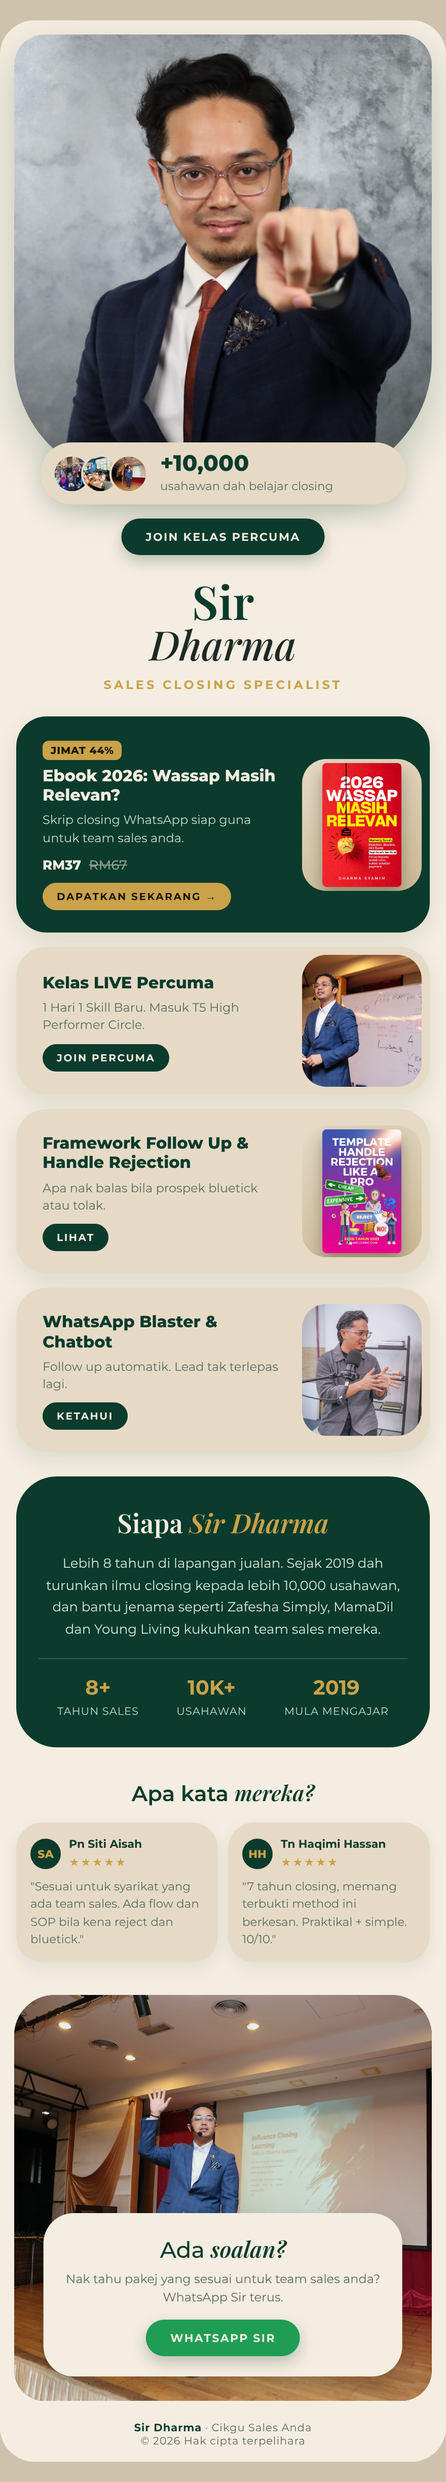
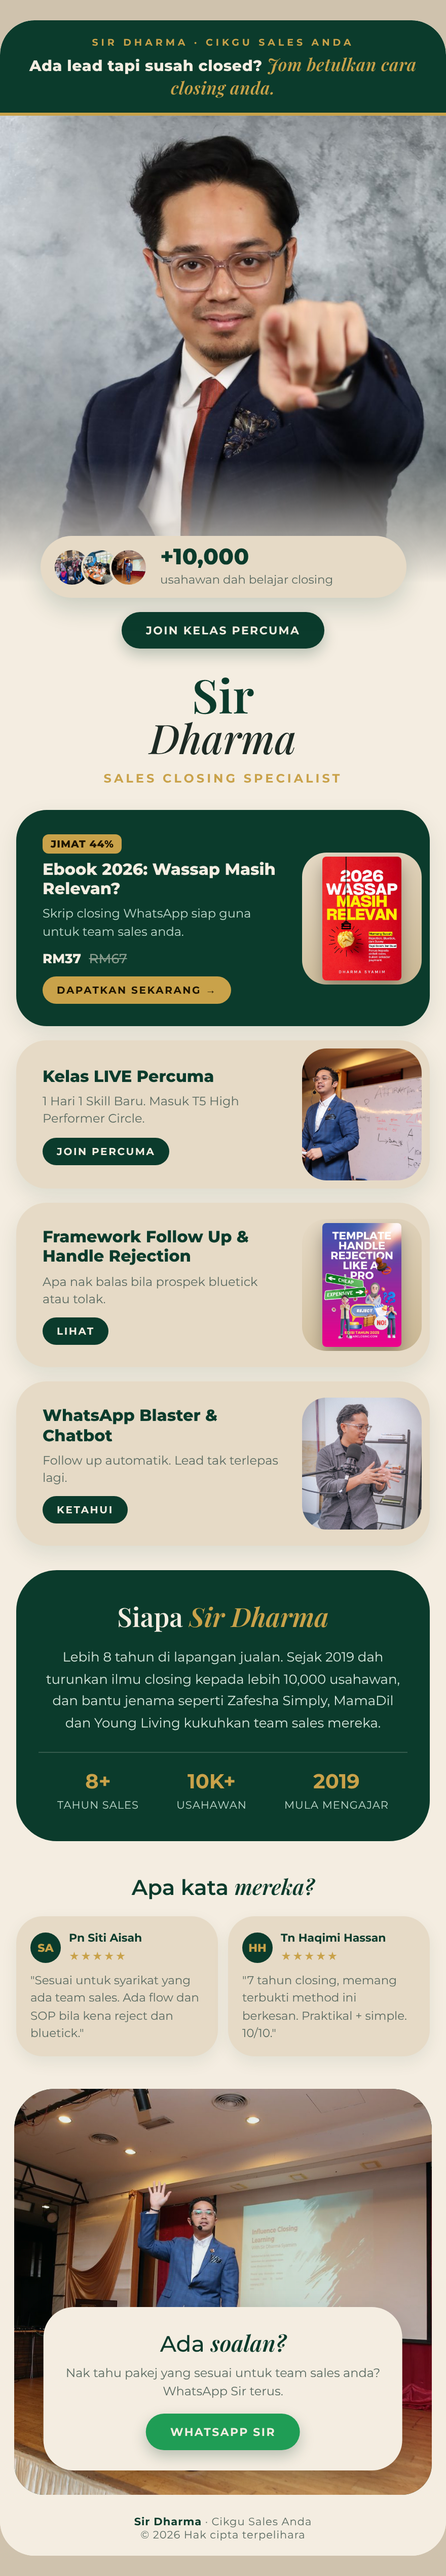
Bio: full-bleed hero photo and headline header bar
Claude-Session: https://claude.ai/code/session_01TPky1w5Smp95p1hdnhCb8t

diff --git a/bio/TAMPAL-custom-html.html b/bio/TAMPAL-custom-html.html
@@ -4,9 +4,10 @@
 .sd{--cream:#f4ede1;--sand:#e6dac6;--green:#0b3b2c;--green2:#14533f;--gold:#c9a24a;--ink:#1d2a24;--soft:#5b6b62;font-family:Montserrat,sans-serif;color:var(--ink);background:var(--cream);max-width:480px;margin:0 auto;overflow:hidden;border-radius:34px}
 .sd *{box-sizing:border-box;margin:0;padding:0}
 .sd a{text-decoration:none;color:inherit}
-.sd .hero{position:relative;padding:14px 14px 0}
-.sd .hero img{display:block;width:100%;height:440px;object-fit:cover;object-position:center 0%;border-radius:30px 30px 120px 120px;box-shadow:0 18px 40px rgba(11,59,44,.22)}
-.sd .stat{position:relative;margin:-38px auto 0;width:82%;background:var(--sand);border-radius:999px;padding:10px 22px 10px 12px;display:flex;align-items:center;gap:12px;box-shadow:0 10px 24px rgba(11,59,44,.18)}
+.sd .hero{position:relative}
+.sd .hero:after{content:"";position:absolute;left:0;right:0;bottom:0;height:120px;background:linear-gradient(180deg,rgba(244,237,225,0),var(--cream))}
+.sd .hero img{display:block;width:100%;height:460px;object-fit:cover;object-position:center 0%}
+.sd .stat{position:relative;z-index:2;margin:-46px auto 0;width:82%;background:var(--sand);border-radius:999px;padding:10px 22px 10px 12px;display:flex;align-items:center;gap:12px;box-shadow:0 10px 24px rgba(11,59,44,.18)}
 .sd .faces{display:flex}
 .sd .faces img{width:38px;height:38px;border-radius:50%;object-fit:cover;border:2px solid var(--sand);margin-left:-10px}
 .sd .faces img:first-child{margin-left:0}
@@ -63,6 +64,10 @@
 .sd .wa{background:#1f9d55}
 .sd .foot{background:var(--cream);margin-top:6px;text-align:center;padding:14px;font-size:10.5px;color:var(--soft);letter-spacing:.5px}
 .sd .foot b{color:var(--green)}
+.sd .top{background:var(--green);color:var(--cream);text-align:center;padding:16px 18px 14px;border-bottom:3px solid var(--gold);position:relative}
+.sd .top small{display:block;font-size:9.5px;letter-spacing:3px;color:var(--gold);font-weight:700;margin-bottom:5px}
+.sd .top h2{font-size:15px;font-weight:800;line-height:1.3;letter-spacing:.3px}
+.sd .top h2 i{font-family:'Playfair Display',serif;font-weight:600;color:var(--gold);font-size:17px}
 .sd .pop{animation:sdpop .6s cubic-bezier(.34,1.56,.64,1) both}
 @keyframes sdpop{0%{opacity:0;transform:translateY(24px) scale(.88)}100%{opacity:1;transform:none}}
 .sd .pulse{animation:sdpop .6s cubic-bezier(.34,1.56,.64,1) both,sdpulse 2.2s ease-in-out 1.2s infinite}
@@ -72,9 +77,10 @@
 @media (prefers-reduced-motion:reduce){.sd .pop,.sd .pulse{animation:none}.sd.js .rev{opacity:1;transform:none}}
 </style>
 <div class="sd">
-  <div class="hero pop"><img src="https://raw.githubusercontent.com/dhsfikri/website-sales/81632282910684cd0790bfd610759b85db0970cc/assets/galeri/studio-tunjuk.jpg" alt="Sir Dharma"></div>
+  <div class="top pop"><small>SIR DHARMA · CIKGU SALES ANDA</small><h2>Ada lead tapi susah closed? <i>Jom betulkan cara closing anda.</i></h2></div>
+  <div class="hero pop" style="animation-delay:.1s"><img src="https://raw.githubusercontent.com/dhsfikri/website-sales/8374efd2309237ca609a4a3c4d42edb5389c55bd/assets/galeri/studio-tunjuk.jpg" alt="Sir Dharma"></div>
   <div class="stat pop" style="animation-delay:.25s">
-    <div class="faces"><img src="https://raw.githubusercontent.com/dhsfikri/website-sales/81632282910684cd0790bfd610759b85db0970cc/assets/galeri/team-farmasi.jpg" alt=""><img src="https://raw.githubusercontent.com/dhsfikri/website-sales/81632282910684cd0790bfd610759b85db0970cc/assets/galeri/coaching-hq.jpg" alt=""><img src="https://raw.githubusercontent.com/dhsfikri/website-sales/81632282910684cd0790bfd610759b85db0970cc/assets/galeri/pentas-influence.jpg" alt=""></div>
+    <div class="faces"><img src="https://raw.githubusercontent.com/dhsfikri/website-sales/8374efd2309237ca609a4a3c4d42edb5389c55bd/assets/galeri/team-farmasi.jpg" alt=""><img src="https://raw.githubusercontent.com/dhsfikri/website-sales/8374efd2309237ca609a4a3c4d42edb5389c55bd/assets/galeri/coaching-hq.jpg" alt=""><img src="https://raw.githubusercontent.com/dhsfikri/website-sales/8374efd2309237ca609a4a3c4d42edb5389c55bd/assets/galeri/pentas-influence.jpg" alt=""></div>
     <div><b>+10,000</b><span>usahawan dah belajar closing</span></div>
   </div>
   <div class="center" style="margin-top:14px"><a class="pill pulse" style="animation-delay:.4s,1.2s" href="GANTI_LINK_T5" target="_top">Join kelas percuma</a></div>
@@ -87,19 +93,19 @@
   <div class="cards">
     <a class="rev card dark" href="https://klik.vip/ebookclosing-bio" target="_top">
       <div class="tx"><span class="tag">JIMAT 44%</span><h3>Ebook 2026: Wassap Masih Relevan?</h3><p>Skrip closing WhatsApp siap guna untuk team sales anda.</p><div class="price">RM37 <s>RM67</s></div><span class="btn">Dapatkan sekarang →</span></div>
-      <div class="ph book"><img src="https://raw.githubusercontent.com/dhsfikri/website-sales/81632282910684cd0790bfd610759b85db0970cc/assets/covers/ebook-2026.jpg" alt="Ebook 2026"></div>
+      <div class="ph book"><img src="https://raw.githubusercontent.com/dhsfikri/website-sales/8374efd2309237ca609a4a3c4d42edb5389c55bd/assets/covers/ebook-2026.jpg" alt="Ebook 2026"></div>
     </a>
     <a class="rev card" href="GANTI_LINK_T5" target="_top">
       <div class="tx"><h3>Kelas LIVE Percuma</h3><p>1 Hari 1 Skill Baru. Masuk T5 High Performer Circle.</p><span class="btn">Join percuma</span></div>
-      <div class="ph"><img src="https://raw.githubusercontent.com/dhsfikri/website-sales/81632282910684cd0790bfd610759b85db0970cc/assets/galeri/hero-whiteboard.jpg" alt=""></div>
+      <div class="ph"><img src="https://raw.githubusercontent.com/dhsfikri/website-sales/8374efd2309237ca609a4a3c4d42edb5389c55bd/assets/galeri/hero-whiteboard.jpg" alt=""></div>
     </a>
     <a class="rev card" href="GANTI_LINK_FRAMEWORK" target="_top">
       <div class="tx"><h3>Framework Follow Up &amp; Handle Rejection</h3><p>Apa nak balas bila prospek bluetick atau tolak.</p><span class="btn">Lihat</span></div>
-      <div class="ph book"><img src="https://raw.githubusercontent.com/dhsfikri/website-sales/81632282910684cd0790bfd610759b85db0970cc/assets/covers/handle-rejection-2025.jpg" alt=""></div>
+      <div class="ph book"><img src="https://raw.githubusercontent.com/dhsfikri/website-sales/8374efd2309237ca609a4a3c4d42edb5389c55bd/assets/covers/handle-rejection-2025.jpg" alt=""></div>
     </a>
     <a class="rev card" href="GANTI_LINK_BLASTER" target="_top">
       <div class="tx"><h3>WhatsApp Blaster &amp; Chatbot</h3><p>Follow up automatik. Lead tak terlepas lagi.</p><span class="btn">Ketahui</span></div>
-      <div class="ph"><img src="https://raw.githubusercontent.com/dhsfikri/website-sales/81632282910684cd0790bfd610759b85db0970cc/assets/galeri/podcast-sir.jpg" alt=""></div>
+      <div class="ph"><img src="https://raw.githubusercontent.com/dhsfikri/website-sales/8374efd2309237ca609a4a3c4d42edb5389c55bd/assets/galeri/podcast-sir.jpg" alt=""></div>
     </a>
   </div>
 
@@ -118,7 +124,7 @@
   </div>
 
   <div class="end rev">
-    <img src="https://raw.githubusercontent.com/dhsfikri/website-sales/81632282910684cd0790bfd610759b85db0970cc/assets/galeri/pentas-influence.jpg" alt="">
+    <img src="https://raw.githubusercontent.com/dhsfikri/website-sales/8374efd2309237ca609a4a3c4d42edb5389c55bd/assets/galeri/pentas-influence.jpg" alt="">
     <div class="box">
       <h2>Ada <i>soalan?</i></h2>
       <p>Nak tahu pakej yang sesuai untuk team sales anda? WhatsApp Sir terus.</p>

diff --git a/bio/bio-pro.html b/bio/bio-pro.html
@@ -4,9 +4,10 @@
 .sd{--cream:#f4ede1;--sand:#e6dac6;--green:#0b3b2c;--green2:#14533f;--gold:#c9a24a;--ink:#1d2a24;--soft:#5b6b62;font-family:Montserrat,sans-serif;color:var(--ink);background:var(--cream);max-width:480px;margin:0 auto;overflow:hidden;border-radius:34px}
 .sd *{box-sizing:border-box;margin:0;padding:0}
 .sd a{text-decoration:none;color:inherit}
-.sd .hero{position:relative;padding:14px 14px 0}
-.sd .hero img{display:block;width:100%;height:440px;object-fit:cover;object-position:center 0%;border-radius:30px 30px 120px 120px;box-shadow:0 18px 40px rgba(11,59,44,.22)}
-.sd .stat{position:relative;margin:-38px auto 0;width:82%;background:var(--sand);border-radius:999px;padding:10px 22px 10px 12px;display:flex;align-items:center;gap:12px;box-shadow:0 10px 24px rgba(11,59,44,.18)}
+.sd .hero{position:relative}
+.sd .hero:after{content:"";position:absolute;left:0;right:0;bottom:0;height:120px;background:linear-gradient(180deg,rgba(244,237,225,0),var(--cream))}
+.sd .hero img{display:block;width:100%;height:460px;object-fit:cover;object-position:center 0%}
+.sd .stat{position:relative;z-index:2;margin:-46px auto 0;width:82%;background:var(--sand);border-radius:999px;padding:10px 22px 10px 12px;display:flex;align-items:center;gap:12px;box-shadow:0 10px 24px rgba(11,59,44,.18)}
 .sd .faces{display:flex}
 .sd .faces img{width:38px;height:38px;border-radius:50%;object-fit:cover;border:2px solid var(--sand);margin-left:-10px}
 .sd .faces img:first-child{margin-left:0}
@@ -63,6 +64,10 @@
 .sd .wa{background:#1f9d55}
 .sd .foot{background:var(--cream);margin-top:6px;text-align:center;padding:14px;font-size:10.5px;color:var(--soft);letter-spacing:.5px}
 .sd .foot b{color:var(--green)}
+.sd .top{background:var(--green);color:var(--cream);text-align:center;padding:16px 18px 14px;border-bottom:3px solid var(--gold);position:relative}
+.sd .top small{display:block;font-size:9.5px;letter-spacing:3px;color:var(--gold);font-weight:700;margin-bottom:5px}
+.sd .top h2{font-size:15px;font-weight:800;line-height:1.3;letter-spacing:.3px}
+.sd .top h2 i{font-family:'Playfair Display',serif;font-weight:600;color:var(--gold);font-size:17px}
 .sd .pop{animation:sdpop .6s cubic-bezier(.34,1.56,.64,1) both}
 @keyframes sdpop{0%{opacity:0;transform:translateY(24px) scale(.88)}100%{opacity:1;transform:none}}
 .sd .pulse{animation:sdpop .6s cubic-bezier(.34,1.56,.64,1) both,sdpulse 2.2s ease-in-out 1.2s infinite}
@@ -72,7 +77,8 @@
 @media (prefers-reduced-motion:reduce){.sd .pop,.sd .pulse{animation:none}.sd.js .rev{opacity:1;transform:none}}
 </style>
 <div class="sd">
-  <div class="hero pop"><img src="IMG/assets/galeri/studio-tunjuk.jpg" alt="Sir Dharma"></div>
+  <div class="top pop"><small>SIR DHARMA · CIKGU SALES ANDA</small><h2>Ada lead tapi susah closed? <i>Jom betulkan cara closing anda.</i></h2></div>
+  <div class="hero pop" style="animation-delay:.1s"><img src="IMG/assets/galeri/studio-tunjuk.jpg" alt="Sir Dharma"></div>
   <div class="stat pop" style="animation-delay:.25s">
     <div class="faces"><img src="IMG/assets/galeri/team-farmasi.jpg" alt=""><img src="IMG/assets/galeri/coaching-hq.jpg" alt=""><img src="IMG/assets/galeri/pentas-influence.jpg" alt=""></div>
     <div><b>+10,000</b><span>usahawan dah belajar closing</span></div>

diff --git a/bio/preview.html b/bio/preview.html
@@ -4,9 +4,10 @@
 .sd{--cream:#f4ede1;--sand:#e6dac6;--green:#0b3b2c;--green2:#14533f;--gold:#c9a24a;--ink:#1d2a24;--soft:#5b6b62;font-family:Montserrat,sans-serif;color:var(--ink);background:var(--cream);max-width:480px;margin:0 auto;overflow:hidden;border-radius:34px}
 .sd *{box-sizing:border-box;margin:0;padding:0}
 .sd a{text-decoration:none;color:inherit}
-.sd .hero{position:relative;padding:14px 14px 0}
-.sd .hero img{display:block;width:100%;height:440px;object-fit:cover;object-position:center 0%;border-radius:30px 30px 120px 120px;box-shadow:0 18px 40px rgba(11,59,44,.22)}
-.sd .stat{position:relative;margin:-38px auto 0;width:82%;background:var(--sand);border-radius:999px;padding:10px 22px 10px 12px;display:flex;align-items:center;gap:12px;box-shadow:0 10px 24px rgba(11,59,44,.18)}
+.sd .hero{position:relative}
+.sd .hero:after{content:"";position:absolute;left:0;right:0;bottom:0;height:120px;background:linear-gradient(180deg,rgba(244,237,225,0),var(--cream))}
+.sd .hero img{display:block;width:100%;height:460px;object-fit:cover;object-position:center 0%}
+.sd .stat{position:relative;z-index:2;margin:-46px auto 0;width:82%;background:var(--sand);border-radius:999px;padding:10px 22px 10px 12px;display:flex;align-items:center;gap:12px;box-shadow:0 10px 24px rgba(11,59,44,.18)}
 .sd .faces{display:flex}
 .sd .faces img{width:38px;height:38px;border-radius:50%;object-fit:cover;border:2px solid var(--sand);margin-left:-10px}
 .sd .faces img:first-child{margin-left:0}
@@ -63,6 +64,10 @@
 .sd .wa{background:#1f9d55}
 .sd .foot{background:var(--cream);margin-top:6px;text-align:center;padding:14px;font-size:10.5px;color:var(--soft);letter-spacing:.5px}
 .sd .foot b{color:var(--green)}
+.sd .top{background:var(--green);color:var(--cream);text-align:center;padding:16px 18px 14px;border-bottom:3px solid var(--gold);position:relative}
+.sd .top small{display:block;font-size:9.5px;letter-spacing:3px;color:var(--gold);font-weight:700;margin-bottom:5px}
+.sd .top h2{font-size:15px;font-weight:800;line-height:1.3;letter-spacing:.3px}
+.sd .top h2 i{font-family:'Playfair Display',serif;font-weight:600;color:var(--gold);font-size:17px}
 .sd .pop{animation:sdpop .6s cubic-bezier(.34,1.56,.64,1) both}
 @keyframes sdpop{0%{opacity:0;transform:translateY(24px) scale(.88)}100%{opacity:1;transform:none}}
 .sd .pulse{animation:sdpop .6s cubic-bezier(.34,1.56,.64,1) both,sdpulse 2.2s ease-in-out 1.2s infinite}
@@ -72,7 +77,8 @@
 @media (prefers-reduced-motion:reduce){.sd .pop,.sd .pulse{animation:none}.sd.js .rev{opacity:1;transform:none}}
 </style>
 <div class="sd">
-  <div class="hero pop"><img src="../assets/galeri/studio-tunjuk.jpg" alt="Sir Dharma"></div>
+  <div class="top pop"><small>SIR DHARMA · CIKGU SALES ANDA</small><h2>Ada lead tapi susah closed? <i>Jom betulkan cara closing anda.</i></h2></div>
+  <div class="hero pop" style="animation-delay:.1s"><img src="../assets/galeri/studio-tunjuk.jpg" alt="Sir Dharma"></div>
   <div class="stat pop" style="animation-delay:.25s">
     <div class="faces"><img src="../assets/galeri/team-farmasi.jpg" alt=""><img src="../assets/galeri/coaching-hq.jpg" alt=""><img src="../assets/galeri/pentas-influence.jpg" alt=""></div>
     <div><b>+10,000</b><span>usahawan dah belajar closing</span></div>
